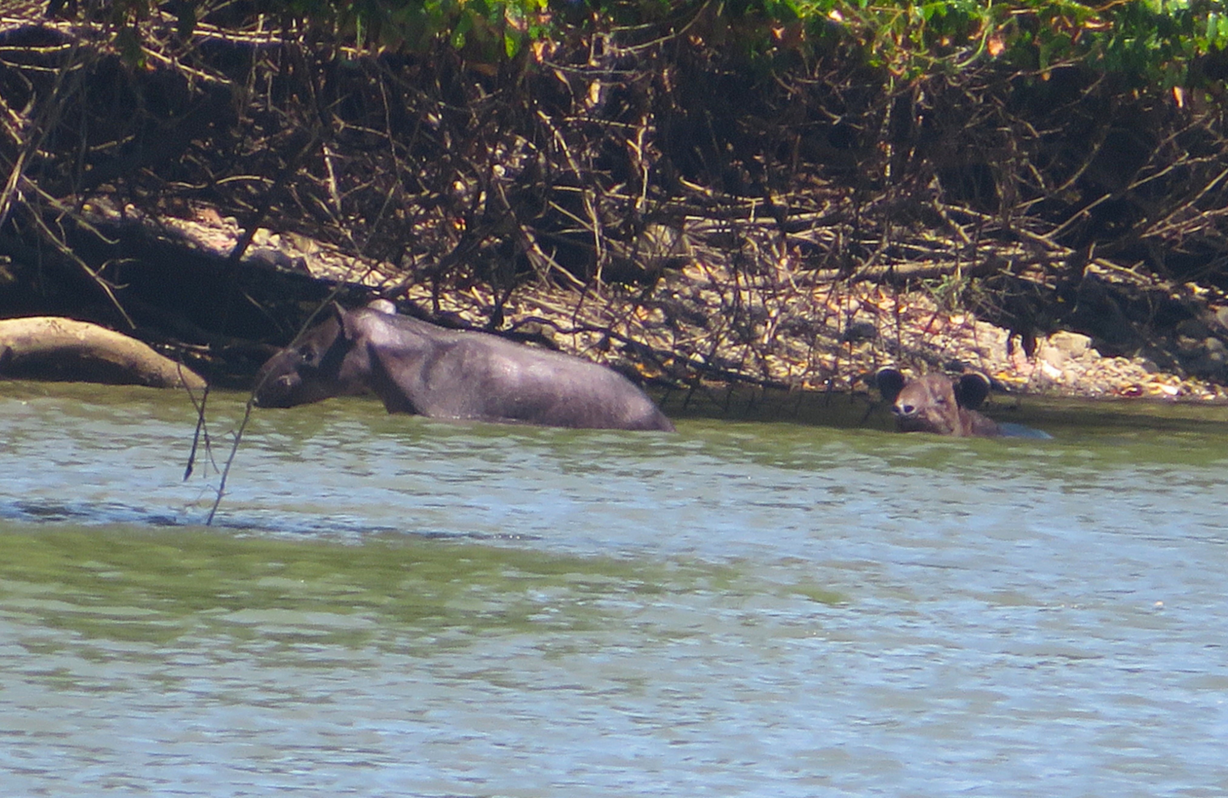
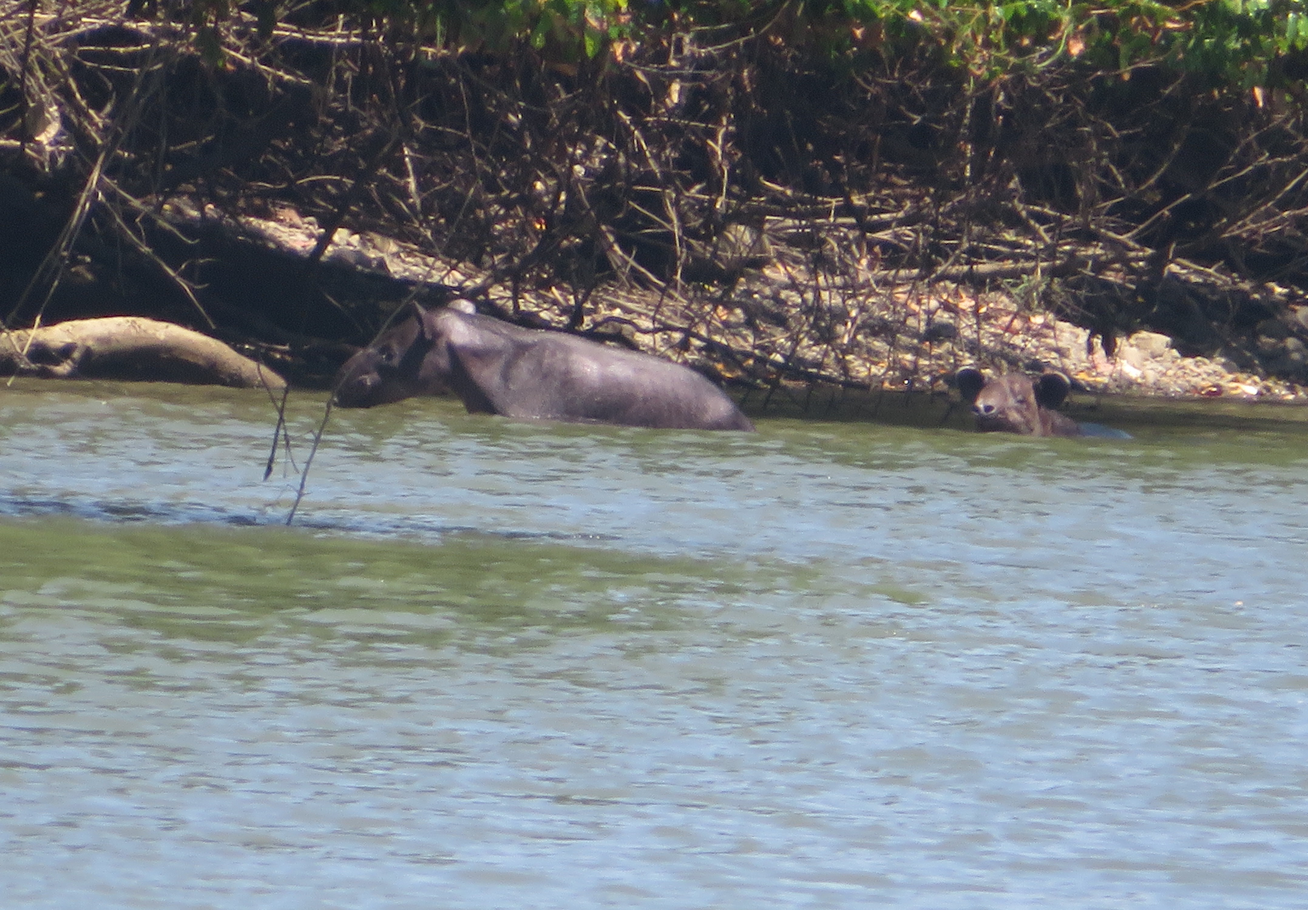
scrollable image gallery

diff --git a/Corcovado.html b/Corcovado.html
@@ -9,9 +9,10 @@
     <body>
         <div id="navbar"></div>
         <script>
+            /*
             if (window.location.pathname.endsWith('.html')) {
                 window.location.href = window.location.pathname.replace('.html', '');
-            }
+            }*/
             fetch('/navbar.html').then(response => response.text()).then(data => {document.getElementById('navbar').innerHTML = data;});
         </script>
         <h1 class = "title1">Corcovado National Park</h1>
@@ -25,6 +26,8 @@
         <div class = "container">
             <div class = "imgtype3"><img src = "images/IMG_0223.jpg" class = "img3" style = " object-position: center 100%;"><p class= "caption">Sirena Beach</p></div>
             <div class = "imgtype3"><img src = "images/IMG_0176.jpg" class = "img3"><p class= "caption">Bahia Drake</p></div>
+            <div class = "imgtype3"><img src = "images/IMG_0741.JPG" class = "img3" ><p class= "caption">Massive Tapir</p></div>
+            <div class = "imgtype4"><img src = "images/IMG_0932.jpg" class = "img3"><p class= "caption">Rainforest</p></div>
         </div>
         
             
@@ -34,7 +37,9 @@
 
         <div class = "container">
             <div class = "imgtype3"><img src = "images/IMG_0183.jpg" class = "img3" ><p class= "caption">Drake Bay Beach</p></div>
-            <div class = "imgtype3"><img src = "images/IMG_0177.jpg" class = "img3" ><p class= "caption">Bahia Drake</p></div>
+            <div class = "imgtype3"><img src = "images/IMG_02241.jpg" class = "img3" ><p class= "caption">Playa Sirena</p></div>
+            <div class = "imgtype3"><img src = "images/IMG_0180.jpg" class = "img3" ><p class= "caption">Bahia Drake</p></div>
+            <div class = "imgtype4"><img src = "images/IMG_0177.jpg" class = "img3" ><p class= "caption">Bahia Drake</p></div>
             
         </div>
 
@@ -49,13 +54,10 @@
 
         <div class = "container">
             <div class = "imgtype3"><img src = "images/IMG_0738.JPG" class = "img3" ><p class= "caption">Massive Tapir</p></div>
-            <div class = "imgtype3"><img src = "images/IMG_0741.JPG" class = "img3" ><p class= "caption">Massive Tapir</p></div>
             <div class = "imgtype3"><img src = "images/IMG_0955.JPG" class = "img3" style = " object-position: center 90%;"><p class= "caption">2 Tapirs swimming!</p></div>
-        </div>
-        <div class = "container">
             <div class = "imgtype3"><img src = "images/IMG_0943.JPG" class = "img3" ><p class= "caption">2 Coatis</p></div>
             <div class = "imgtype3"><img src = "images/Coati.jpg" class = "img3" ><p class= "caption">Coati in a tree</p></div>
-            <div class = "imgtype3"><img src = "images/IMG_0711.JPG" class = "img3" ><p class= "caption">2 Coatis</p></div>
+            <div class = "imgtype4"><img src = "images/IMG_0711.JPG" class = "img3" ><p class= "caption">2 Coatis</p></div>
         </div>
         
         
@@ -68,13 +70,11 @@
 
         <div class = "container">
             <div class = "imgtype3"><img src = "images/IMG_0724.JPG" class = "img3" ><p class= "caption">Spider Monkey & Baby</p></div>
-            <div class = "imgtype3"><img src = "images/IMG_0856.JPG" class = "img3" ><p class= "caption">Spider Monkey in a tree</p></div>
-            <div class = "imgtype3"><img src = "images/IMG_0857.JPG" class = "img3"><p class= "caption">Spider Monkey near Sirena Beach</p></div>
-        </div>
-        <div class = "container">
             <div class = "imgtype3"><img src = "images/DSC08814.JPG" class = "img3" ><p class= "caption">2 Anteaters</p></div>
             <div class = "imgtype3"><img src = "images/IMG_0688.JPG" class = "img3" ><p class= "caption">3-Toed Sloth</p></div>
-            <div class = "imgtype3"><img src = "images/IMG_0907.JPG" class = "img3" ><p class= "caption">Agouti</p></div>
+            <div class = "imgtype3"><img src = "images/IMG_0856.JPG" class = "img3" ><p class= "caption">Spider Monkey</p></div>
+            <div class = "imgtype3"><img src = "images/IMG_0857.JPG" class = "img3"><p class= "caption">Spider Monkey</p></div>
+            <div class = "imgtype4"><img src = "images/IMG_0907.JPG" class = "img3" ><p class= "caption">Agouti</p></div>
         </div>
 
             
@@ -86,6 +86,7 @@
             <div class = "imgtype3"><img src = "images/IMG_0779.JPG" class = "img3" ><p class= "caption">Scarlet Macaw</p></div>
             <div class = "imgtype3"><img src = "images/IMG_0870.JPG" class = "img3" ><p class= "caption">Lizards</p></div>
             <div class = "imgtype3"><img src = "images/IMG_0696.JPG" class = "img3"><p class= "caption">Iguana</p></div>
+            <div class = "imgtype4"><img src = "images/IMG_0780.JPG" class = "img3" ><p class= "caption">Scarlet Macaw</p></div>
         </div>
     </body>
     <div id="footer"></div>

diff --git a/Culebra.html b/Culebra.html
@@ -9,9 +9,11 @@
     <body>
         <div id="navbar"></div>
         <script>
+            /*
             if (window.location.pathname.endsWith('.html')) {
                 window.location.href = window.location.pathname.replace('.html', '');
             }
+                */
             fetch('/navbar.html').then(response => response.text()).then(data => {document.getElementById('navbar').innerHTML = data;});
         </script>
         <h1 class = "title1">Isla Culebra</h1>
@@ -23,6 +25,8 @@
         <div class = "container">
             <div class = "imgtype3"><img src = "images/IMG_6741.JPG" class = "img3" ><p class= "caption">Culebra Scenic View</p></div>
             <div class = "imgtype3"><img src = "images/IMG_6725.JPG" class = "img3" ><p class= "caption">Ferry to Culebra</p></div>
+            <div class = "imgtype3"><img src = "images/IMG_6755.JPG" class = "img3" ><p class= "caption">Culebra Harbor</p></div>
+            <div class = "imgtype4"><img src = "images/20210101_001955A.jpg" class = "img3" ><p class= "caption">Sea Turtle</p></div>
         </div>
             
         <p class="text3">Culebra's hilly scenery is gorgeous. The hotel I stayed in had a great view overlooking 
@@ -32,14 +36,10 @@
         </p>
 
         <div class = "container">
+            <div class = "imgtype3"><img src = "images/20220411_154940A.jpg" class = "img3" ><p class= "caption">Sea Turtle</p></div>
+            <div class = "imgtype3"><img src = "images/20210101_002003A.jpg" class = "img3" ><p class= "caption">Sea Turtle</p></div>
             <div class = "imgtype3"><img src = "images/IMG_6752.JPG" class = "img3" ><p class= "caption">View of Vieques</p></div>
-            <div class = "imgtype3"><img src = "images/IMG_6755.JPG" class = "img3" ><p class= "caption">Culebra Harbor</p></div>
-            <div class = "imgtype3"><img src = "images/IMG_6762.JPG" class = "img3" ><p class= "caption">Hotel View</p></div>
-        </div>
-        <div class = "container">
-            <div class = "imgtype3"><img src = "images/20220411_154940A.jpg" class = "img3" ><p class= "caption">Sea Turtle, Tamarindo Beach</p></div>
-            <div class = "imgtype3"><img src = "images/20210101_002006A.jpg" class = "img3" ><p class= "caption">Sea Turtle, Tamarindo Beach</p></div>
-            <div class = "imgtype3"><img src = "images/20210101_001955A.jpg" class = "img3" ><p class= "caption">Sea Turtle, Tamarindo Beach</p></div>
+            <div class = "imgtype4"><img src = "images/IMG_6762.JPG" class = "img3" style = "object-position: center 100%;"><p class= "caption">Hotel View</p></div>
         </div>
         
     </body>

diff --git a/ElYunque.html b/ElYunque.html
@@ -9,9 +9,10 @@
     <body>
         <div id="navbar"></div>
         <script>
-            if (window.location.pathname.endsWith('.html')) {
+           /* if (window.location.pathname.endsWith('.html')) {
                 window.location.href = window.location.pathname.replace('.html', '');
             }
+                */
             fetch('/navbar.html').then(response => response.text()).then(data => {document.getElementById('navbar').innerHTML = data;});
         </script>
         <h1 class = "title1">El Yunque National Forest</h1>
@@ -24,6 +25,8 @@
         <div class = "container">
             <div class = "imgtype3"><img src = "images/IMG_6551.JPG" class = "img3" ><p class= "caption">View of San Juan airport</p></div>
             <div class = "imgtype3"><img src = "images/IMG_6573.JPG" class = "img3" ><p class= "caption">El Yunque Mountains</p></div>
+            <div class = "imgtype3"><img src = "images/IMG_6541.JPG" class = "img3" ><p class= "caption">Luquillo Town</p></div>
+            <div class = "imgtype4"><img src = "images/IMG_6572.JPG" class = "img3" ><p class= "caption">Nearby Mountains</p></div>
         </div>
         
             
@@ -34,13 +37,9 @@
 
         <div class = "container">
             <div class = "imgtype3"><img src = "images/IMG_6518.JPG" class = "img3" ><p class= "caption">Catarata Coca</p></div>
-            <div class = "imgtype3"><img src = "images/IMG_6572.JPG" class = "img3" ><p class= "caption">Nearby Mountains</p></div>
             <div class = "imgtype3"><img src = "images/IMG_6576.JPG" class = "img3" ><p class= "caption">Torre Britton</p></div>
-        </div>
-        <div class = "container">
             <div class = "imgtype3"><img src = "images/IMG_6526.JPG" class = "img3" ><p class= "caption">East Puerto Rico</p></div>
-            <div class = "imgtype3"><img src = "images/IMG_6528.JPG" class = "img3" ><p class= "caption">Luquillo Town</p></div>
-            <div class = "imgtype3"><img src = "images/IMG_6541.JPG" class = "img3" ><p class= "caption">Luquillo Town</p></div>
+            <div class = "imgtype4"><img src = "images/IMG_6528.JPG" class = "img3" ><p class= "caption">Luquillo Town</p></div>
         </div>
     </body>
     <div id="footer"></div>

diff --git a/CapitolReef.html b/CapitolReef.html
@@ -9,11 +9,11 @@
     <body>
         <div id="navbar"></div>
         <script>
-            /*
+            
             if (window.location.pathname.endsWith('.html')) {
                 window.location.href = window.location.pathname.replace('.html', '');
             }
-              */  
+              
             fetch('/navbar.html').then(response => response.text()).then(data => {document.getElementById('navbar').innerHTML = data;});
         </script>
         <h1 class = "title1">Capitol Reef National Park</h1>
